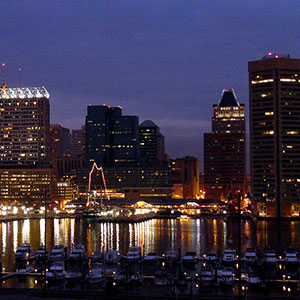
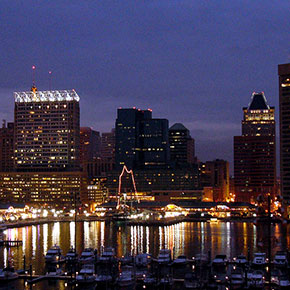
Resized Baltimore image to leave space below the promo box

diff --git a/baltimore.html b/baltimore.html
@@ -68,7 +68,7 @@
     <div id="container" class="container_12 page clearfix">
       <div class="grid_12 omega alpha">
         <div id="promo" class="baltimore">
-          <img alt="Baltimore Harbor" src="/images/rg-baltimore.jpg" height="300" width= "300" />
+          <img alt="Baltimore Harbor" src="/images/rg-baltimore.jpg" height="290" width="290" />
           <h1>Rails Girls Baltimore: March 1st-2nd, 2013</h1>
           <p>Welcome, hon!</p>
           <p>
